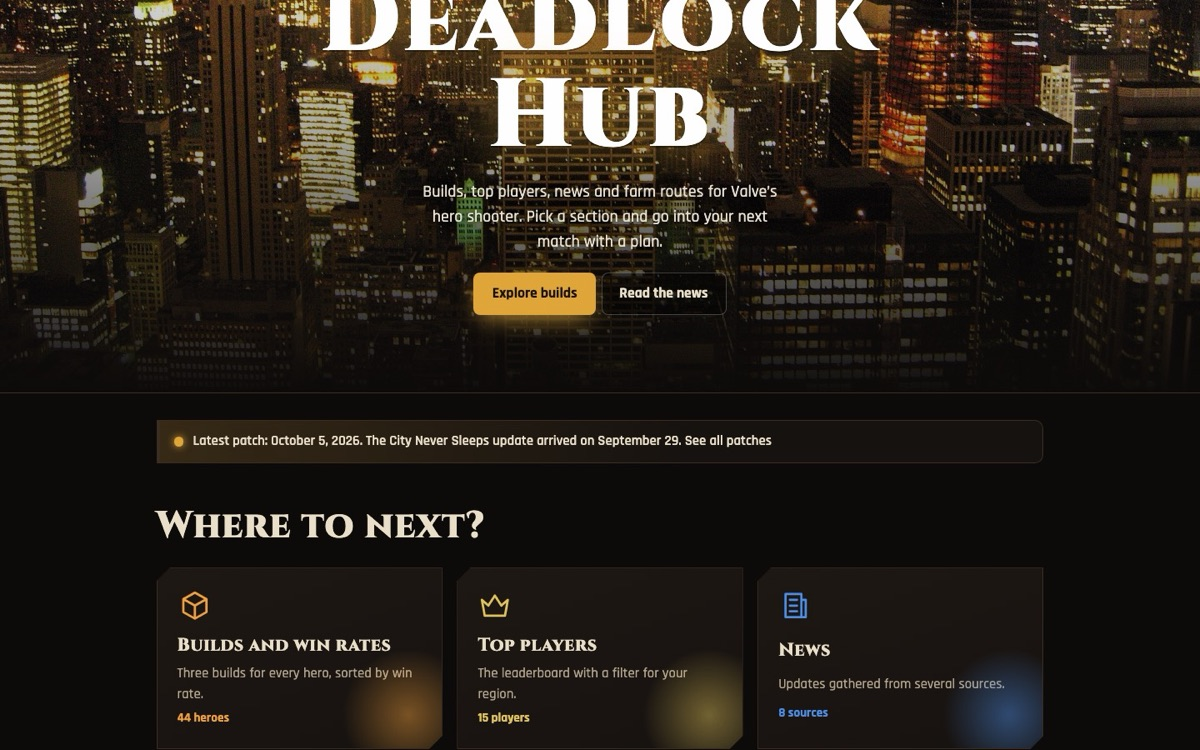
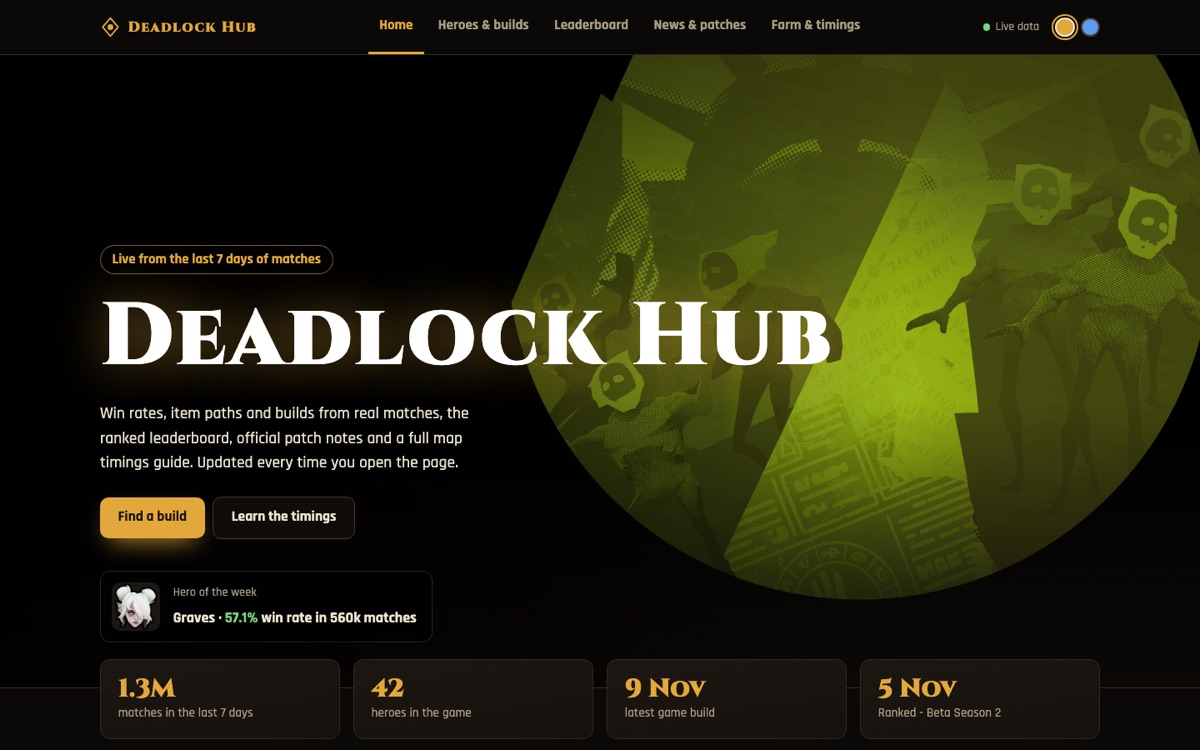
Update screenshots and texts for the redesigned barbershop, massage studio and Deadlock Hub

diff --git a/src/projects.ts b/src/projects.ts
@@ -38,32 +38,32 @@ export const PROJECTS: Project[] = [
   },
   {
     id: 'barbershop', name: 'Linden Street Barbers', year: 2026, kind: 'Booking site', niche: 'Barbershop', tech: ['HTML', 'CSS', 'JavaScript'], has: ['Booking flow', 'Photographs', 'Animations', 'Responsive'],
-    tagline: 'A barbershop page with prices, opening hours and online booking by the half hour.',
-    summary: 'A concept site for a barbershop on Linden Street, in black-and-white photographs and an ochre accent. Visitors read the prices, pick a service and a day, and see the free half-hour slots.',
+    tagline: 'A modern barbershop page with prices and step-by-step online booking.',
+    summary: 'A concept site for a barbershop on Linden Street: light and clean, with colour photographs, a deep green and brass accent, and booking in four steps. The first screen shows the next free chair.',
     live: `${PAGES}/linden-barbers/`, code: `${REPO}/linden-barbers`,
     shot: 'shots/barbershop.jpg', shot2: 'shots/barbershop-2.jpg',
-    features: ['Full-width photograph of the shop and one booking button', 'Price list with each service\'s length beside a photograph that develops like a print', 'Booking with free and taken slots, closed days explained, and a live summary with the price', 'A phone bar with the booking button once the first screen has scrolled away'],
-    decisions: ['Slots are generated from the opening hours in a few lines of plain JavaScript.', 'Every field has a visible label and an error under it.', 'No build step: one HTML file and the design kit.'],
-    tryIt: ['Pick a Monday to see the closed-day message', 'Choose a service and watch the summary change'],
+    features: ['First screen with the next free chair, worked out from the booking calendar', 'Services as cards; "Book this" fills in the form', 'Gallery of the work and three steps of a visit', 'Booking: service, a day from the next two weeks, a free half-hour time, name and email, with a live summary and a confirmation', 'Opening hours with today marked and an "open now" label'],
+    decisions: ['One HTML file, no framework: fonts from Google, everything else inline.', 'Free and taken times come from the opening hours and the length of the service, so a long service never overlaps a taken slot.', 'Every field has a visible label and a plain error under it.'],
+    tryIt: ['Press "Book this time" in the first screen', 'Pick Haircut and beard and see which times disappear', 'Send the form without an email'],
   },
   {
     id: 'soft-spot', name: 'Soft Spot Massage', year: 2026, kind: 'Booking site', niche: 'Wellness', tech: ['HTML', 'CSS', 'JavaScript'], has: ['Booking flow', 'Finder', 'Photographs', 'Responsive'],
-    tagline: 'A massage studio page that suggests a session from two questions.',
-    summary: 'A concept site for a one-room massage studio on Harbour Lane. A finder matches what brings a visitor in and the pressure they like to a session, then the request form takes over.',
+    tagline: 'A calm massage studio page that suggests a session from two questions.',
+    summary: 'A concept site for a one-room massage studio on Harbour Lane, on warm linen with sage and clay accents and an even grid. A finder matches what brings a visitor in and the pressure they like to a session, then the request form takes over.',
     live: `${PAGES}/soft-spot-massage/`, code: `${REPO}/soft-spot-massage`,
     shot: 'shots/soft-spot.jpg', shot2: 'shots/soft-spot-2.jpg',
-    features: ['Visit block with the therapist, address, hours, cancelling and paying', 'Sessions and prices in three groups over a strip of four detail photographs', 'Session finder that fills the request form', 'Open answers to the usual questions and a request form'],
-    decisions: ['The finder is a short rule set, easy to change with the menu.', 'Photographs share one warm daylight grade.', 'Plain-language pressure choices instead of a numeric scale.'],
-    tryIt: ['Tick two reasons and choose a pressure', 'Press Request this session and check the form'],
+    features: ['Centred first screen with one wide photograph and the key facts', 'Four session cards; a 60 / 90 minute switch changes the price', 'Session finder that fills the request form', 'What happens in the hour, in three steps', 'Questions as an accordion and a request form with day and time-of-day choices'],
+    decisions: ['One grid for every section, so blocks line up from top to bottom.', 'The finder is a short rule set, easy to change with the menu.', 'Plain-language pressure choices instead of a numeric scale.'],
+    tryIt: ['Tick two reasons and choose a pressure', 'Switch Deep tissue to 90 minutes', 'Press Request this session and check the form'],
   },
   {
-    id: 'deadlock-hub', name: 'Deadlock Hub', year: 2026, kind: 'Community hub', niche: 'Gaming', tech: ['HTML', 'CSS', 'JavaScript'], has: ['Filters', 'Forum', 'Data tables', 'Themes', 'Responsive'],
-    tagline: 'A fan-made hub with builds for 44 heroes, top players, news, patches, a farm planner and a forum.',
-    summary: 'A concept community site for the game Deadlock. A night city opens it, and the team switch changes the photograph and every accent. Statistics are sample data.',
+    id: 'deadlock-hub', name: 'Deadlock Hub', year: 2026, kind: 'Community hub', niche: 'Gaming', tech: ['HTML', 'CSS', 'JavaScript', 'Live API'], has: ['Live data', 'Filters', 'Interactive map', 'Data tables', 'Themes', 'Responsive'],
+    tagline: 'A fan hub for Deadlock on live data: win rates, item paths, builds, the leaderboard, news and a map timings guide.',
+    summary: 'A community site for the game Deadlock that reads the open deadlock-api.com straight from the browser. Win and pick rates, item paths from real games, top community builds, the ranked leaderboard and official patch notes are always current. A daily snapshot keeps it working if the API is down.',
     live: `${PAGES}/deadlock-hub/`, code: `${REPO}/deadlock-hub`,
     shot: 'shots/deadlock-hub.jpg', shot2: 'shots/deadlock-hub-2.jpg',
-    features: ['Night city hero that changes with the team colour', 'Six section tiles, each in its own colour', 'Builds for all 44 heroes with search and sorting', 'Leaderboard with a region filter and the top three marked', 'Farm route by game minute, patch timeline and a forum with voting'],
-    decisions: ['Sample statistics are labelled as such, with the date they were checked.', 'Builds for every hero come from one data list.', 'One file, no build step, works offline.'],
-    tryIt: ['Switch the team colour at the top right', 'Open Farm route and drag the minute slider', 'Search a hero in Builds'],
+    features: ['Hero of the week on official hero art, with match counts and the strongest and most picked heroes', 'Heroes: win rate, pick rate, KDA and souls, filtered by period, rank and role', 'Item path from real games by phase, with buy time and win rate, plus the top three community builds', 'Ranked leaderboard by region, season and hero', 'Farm and timings: game clock, map with every camp and objective, souls at any minute, a route per phase'],
+    decisions: ['No backend: the browser calls the public API, and GitHub Actions saves a fallback copy every morning.', 'Spawn timers are checked against the official patch notes and kept in one place in the code.', 'Plain HTML, CSS and JavaScript, no build step.'],
+    tryIt: ['Open a hero and switch the rank filter to Oracle and up', 'Drag the game clock in Farm and timings', 'Switch the leaderboard to the previous season'],
   },
 ];
